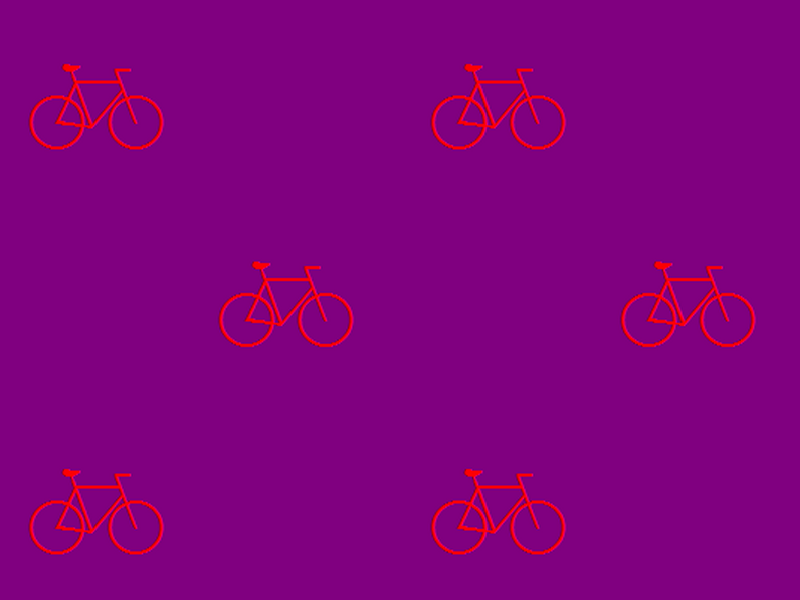
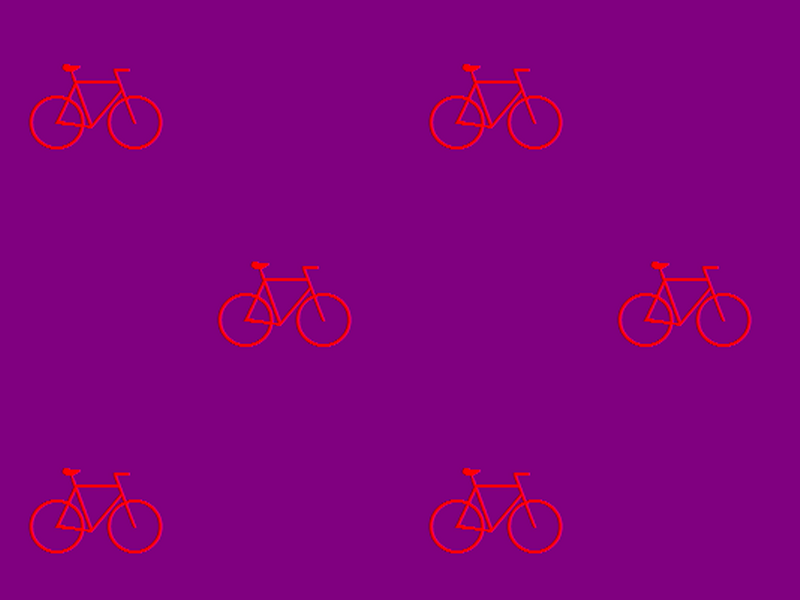
Fix Facebook sidebar.
Relanding http://codereview.chromium.org/20386 (r9836), this time 
with re-baselined layout tests. The change affects the pixel diffs for 
any test with a tiled css background image.

BUG = 5564
TBR= brettw
TEST= layout tests, conveniently re-baselined to pass with this change :)
Review URL: http://codereview.chromium.org/20388

git-svn-id: svn://svn.chromium.org/chrome/trunk/src@9839 0039d316-1c4b-4281-b951-d872f2087c98

diff --git a/skia/sgl/SkBitmapProcState_matrixProcs.cpp b/skia/sgl/SkBitmapProcState_matrixProcs.cpp
@@ -28,6 +28,8 @@ void decal_filter_scale(uint32_t dst[], SkFixed fx, SkFixed dx, int count);
 #define TILEX_LOW_BITS(fx, max) (((fx) >> 12) & 0xF)
 #define TILEY_LOW_BITS(fy, max) (((fy) >> 12) & 0xF)
 #define CHECK_FOR_DECAL
+#define TILEX_TRANS(x, max)     SkClampMax(x, max)
+#define TILEY_TRANS(y, max)     SkClampMax(y, max)
 #include "SkBitmapProcState_matrix.h"
 
 #define MAKENAME(suffix)        RepeatX_RepeatY ## suffix
@@ -35,6 +37,8 @@ void decal_filter_scale(uint32_t dst[], SkFixed fx, SkFixed dx, int count);
 #define TILEY_PROCF(fy, max)    (((fy) & 0xFFFF) * ((max) + 1) >> 16)
 #define TILEX_LOW_BITS(fx, max) ((((fx) & 0xFFFF) * ((max) + 1) >> 12) & 0xF)
 #define TILEY_LOW_BITS(fy, max) ((((fy) & 0xFFFF) * ((max) + 1) >> 12) & 0xF)
+#define TILEX_TRANS(x, max)     ((x) % ((max) + 1))
+#define TILEY_TRANS(y, max)     ((y) % ((max) + 1))
 #include "SkBitmapProcState_matrix.h"
 
 #define MAKENAME(suffix)        GeneralXY ## suffix
@@ -44,13 +48,19 @@ void decal_filter_scale(uint32_t dst[], SkFixed fx, SkFixed dx, int count);
 #define PREAMBLE_PARAM_Y        , SkBitmapProcState::FixedTileProc tileProcY
 #define PREAMBLE_ARG_X          , tileProcX
 #define PREAMBLE_ARG_Y          , tileProcY
-#define TILEX_PROCF(fx, max)    (tileProcX(fx) * ((max) + 1) >> 16)
-#define TILEY_PROCF(fy, max)    (tileProcY(fy) * ((max) + 1) >> 16)
-#define TILEX_LOW_BITS(fx, max) ((tileProcX(fx) * ((max) + 1) >> 12) & 0xF)
-#define TILEY_LOW_BITS(fy, max) ((tileProcY(fy) * ((max) + 1) >> 12) & 0xF)
+#define TILEX_PROCF(fx, max)    (tileProcX(fx, max) >> 16)
+#define TILEY_PROCF(fy, max)    (tileProcY(fy, max) >> 16)
+#define TILEX_LOW_BITS(fx, max) ((tileProcX(fx, max) >> 14) & 0x3)
+#define TILEY_LOW_BITS(fy, max) ((tileProcY(fy, max) >> 14) & 0x3)
+#define PREAMBLE_TRANS(state)   SkBitmapProcState::IntTileProc tileProcX = (state).iTileProcX; \
+                                SkBitmapProcState::IntTileProc tileProcY = (state).iTileProcY
+#define TILEX_TRANS(x, max)     tileProcX(x, max)
+#define TILEY_TRANS(y, max)     tileProcY(y, max)
 #include "SkBitmapProcState_matrix.h"
 
-static inline U16CPU fixed_clamp(SkFixed x)
+
+
+static inline SkFixed fixed_clamp(SkFixed x, int max)
 {
 #ifdef SK_CPU_HAS_CONDITIONAL_INSTR
     if (x >> 16)
@@ -66,19 +76,20 @@ static inline U16CPU fixed_clamp(SkFixed x)
             x = 0xFFFF;
     }
 #endif
-    return x;
+    return x * (max + 1);
 }
 
-static inline U16CPU fixed_repeat(SkFixed x)
+static inline SkFixed fixed_repeat(SkFixed x, int max)
 {
-    return x & 0xFFFF;
+    return (x & 0xFFFF) * (max + 1);
 }
 
-static inline U16CPU fixed_mirror(SkFixed x)
+static inline SkFixed fixed_mirror(SkFixed x, int max)
 {
     SkFixed s = x << 15 >> 31;
     // s is FFFFFFFF if we're on an odd interval, or 0 if an even interval
-    return (x ^ s) & 0xFFFF;
+    x = ((x ^ s) & 0xFFFF) * (max + 1);
+    return s ? (x ^ 0xFFFF) : x;
 }
 
 static SkBitmapProcState::FixedTileProc choose_tile_proc(unsigned m)
@@ -91,14 +102,51 @@ static SkBitmapProcState::FixedTileProc choose_tile_proc(unsigned m)
     return fixed_mirror;
 }
 
+static inline int int_clamp(int x, int max)
+{
+    SkASSERT(max >= 0);
+
+    return SkClampMax(x, max);
+}
+
+static inline int int_repeat(int x, int max)
+{
+    SkASSERT(max >= 0);
+
+    return x % (max + 1);
+}
+
+static inline int int_mirror(int x, int max)
+{
+    SkASSERT(max >= 0);
+
+    int dx = x % (max + 1);
+    if (dx < 0)
+        dx = -dx - 1;
+
+    return (x / (max + 1) % 2) ? max - dx : dx;
+}
+
+static SkBitmapProcState::IntTileProc choose_int_tile_proc(unsigned m)
+{
+    if (SkShader::kClamp_TileMode == m)
+        return int_clamp;
+    if (SkShader::kRepeat_TileMode == m)
+        return int_repeat;
+    SkASSERT(SkShader::kMirror_TileMode == m);
+    return int_mirror;
+}
+
 SkBitmapProcState::MatrixProc SkBitmapProcState::chooseMatrixProc()
 {
     int index = 0;
     if (fDoFilter)
         index = 1;
     if (fInvType & SkMatrix::kPerspective_Mask)
-        index |= 4;
+        index |= 6;
     else if (fInvType & SkMatrix::kAffine_Mask)
+        index |= 4;
+    else if (fInvType & SkMatrix::kScale_Mask)
         index |= 2;
 
     if (SkShader::kClamp_TileMode == fTileModeX &&
@@ -123,6 +171,8 @@ SkBitmapProcState::MatrixProc SkBitmapProcState::chooseMatrixProc()
     // only general needs these procs
     fTileProcX = choose_tile_proc(fTileModeX);
     fTileProcY = choose_tile_proc(fTileModeY);
+    iTileProcX = choose_int_tile_proc(fTileModeX);
+    iTileProcY = choose_int_tile_proc(fTileModeY);
     return GeneralXY_Procs[index];
 }
 

diff --git a/skia/sgl/SkBitmapProcState_matrix.h b/skia/sgl/SkBitmapProcState_matrix.h
@@ -1,4 +1,5 @@
 
+#define TRANSLATE_NOFILTER_NAME MAKENAME(_nofilter_translate)
 #define SCALE_NOFILTER_NAME     MAKENAME(_nofilter_scale)
 #define SCALE_FILTER_NAME       MAKENAME(_filter_scale)
 #define AFFINE_NOFILTER_NAME    MAKENAME(_nofilter_affine)
@@ -16,6 +17,38 @@
     #define PREAMBLE_ARG_X
     #define PREAMBLE_ARG_Y
 #endif
+
+#ifndef PREAMBLE_TRANS
+    #define PREAMBLE_TRANS(state)
+#endif
+
+static void TRANSLATE_NOFILTER_NAME(const SkBitmapProcState& s,
+                                    uint32_t xy[], int count, int x, int y)
+{
+    SkASSERT((s.fInvType & ~SkMatrix::kTranslate_Mask) == 0);
+
+    PREAMBLE_TRANS(s);
+
+    x += SkScalarFloor(s.fInvMatrix->getTranslateX());
+    y += SkScalarFloor(s.fInvMatrix->getTranslateY());
+
+    *xy++ = (uint32_t)TILEY_TRANS(y, (s.fBitmap->height() - 1));
+    
+    unsigned maxX = s.fBitmap->width() - 1;
+    int i;
+    uint16_t* xx = (uint16_t*)xy;
+    for (i = (count >> 2); i > 0; --i)
+    {
+        *xx++ = (uint16_t)TILEX_TRANS(x, maxX); x++;
+        *xx++ = (uint16_t)TILEX_TRANS(x, maxX); x++;
+        *xx++ = (uint16_t)TILEX_TRANS(x, maxX); x++;
+        *xx++ = (uint16_t)TILEX_TRANS(x, maxX); x++;
+    }
+    for (i = (count & 3); i > 0; --i)
+    {
+        *xx++ = (uint16_t)TILEX_TRANS(x, maxX); x++;
+    }
+}
 
 static void SCALE_NOFILTER_NAME(const SkBitmapProcState& s,
                                 uint32_t xy[], int count, int x, int y) {
@@ -241,6 +274,9 @@ static void PERSP_FILTER_NAME(const SkBitmapProcState& s,
 }
 
 static SkBitmapProcState::MatrixProc MAKENAME(_Procs)[] = {
+    TRANSLATE_NOFILTER_NAME,
+    TRANSLATE_NOFILTER_NAME,    // No need to do filtering if the matrix is no
+                                // more complex than identity/translate.
     SCALE_NOFILTER_NAME,
     SCALE_FILTER_NAME,
     AFFINE_NOFILTER_NAME,
@@ -256,6 +292,10 @@ static SkBitmapProcState::MatrixProc MAKENAME(_Procs)[] = {
     #undef CHECK_FOR_DECAL
 #endif
 
+#undef TILEX_TRANS
+#undef TILEY_TRANS
+
+#undef TRANSLATE_NOFILTER_NAME
 #undef SCALE_NOFILTER_NAME
 #undef SCALE_FILTER_NAME
 #undef AFFINE_NOFILTER_NAME
@@ -268,6 +308,8 @@ static SkBitmapProcState::MatrixProc MAKENAME(_Procs)[] = {
 #undef PREAMBLE_PARAM_Y
 #undef PREAMBLE_ARG_X
 #undef PREAMBLE_ARG_Y
+
+#undef PREAMBLE_TRANS
 
 #undef TILEX_LOW_BITS
 #undef TILEY_LOW_BITS

diff --git a/skia/sgl/SkBitmapProcState.h b/skia/sgl/SkBitmapProcState.h
@@ -39,7 +39,8 @@ struct SkBitmapProcState {
                                  int count,
                                  uint16_t colors[]);
     
-    typedef U16CPU (*FixedTileProc)(SkFixed);   // returns 0..0xFFFF
+    typedef SkFixed (*FixedTileProc)(SkFixed, int);
+    typedef int (*IntTileProc)(int, int);
     
     MatrixProc          fMatrixProc;        // chooseProcs
     SampleProc32        fSampleProc32;      // chooseProcs
@@ -48,6 +49,8 @@ struct SkBitmapProcState {
     SkMatrix            fUnitInvMatrix;     // chooseProcs
     FixedTileProc       fTileProcX;         // chooseProcs
     FixedTileProc       fTileProcY;         // chooseProcs
+    IntTileProc         iTileProcX;         // chooseProcs
+    IntTileProc         iTileProcY;         // chooseProcs
     SkFixed             fFilterOneX;
     SkFixed             fFilterOneY;
 

diff --git a/skia/sgl/SkBitmapProcState.cpp b/skia/sgl/SkBitmapProcState.cpp
@@ -296,8 +296,9 @@ bool SkBitmapProcState::chooseProcs(const SkMatrix& inv, const SkPaint& paint) {
     }
     const SkMatrix* m;
     
-    if (SkShader::kClamp_TileMode == fTileModeX &&
-            SkShader::kClamp_TileMode == fTileModeY) {
+    if (inv.getType() <= SkMatrix::kTranslate_Mask ||
+        (SkShader::kClamp_TileMode == fTileModeX &&
+         SkShader::kClamp_TileMode == fTileModeY)) {
         m = &inv;
     } else {
         fUnitInvMatrix = inv;
